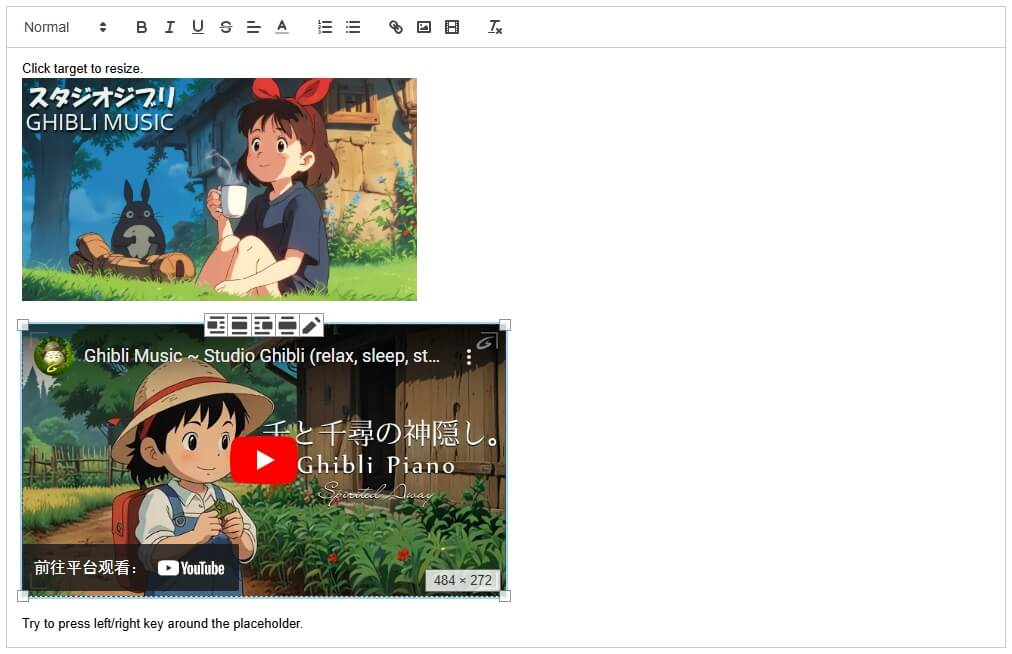
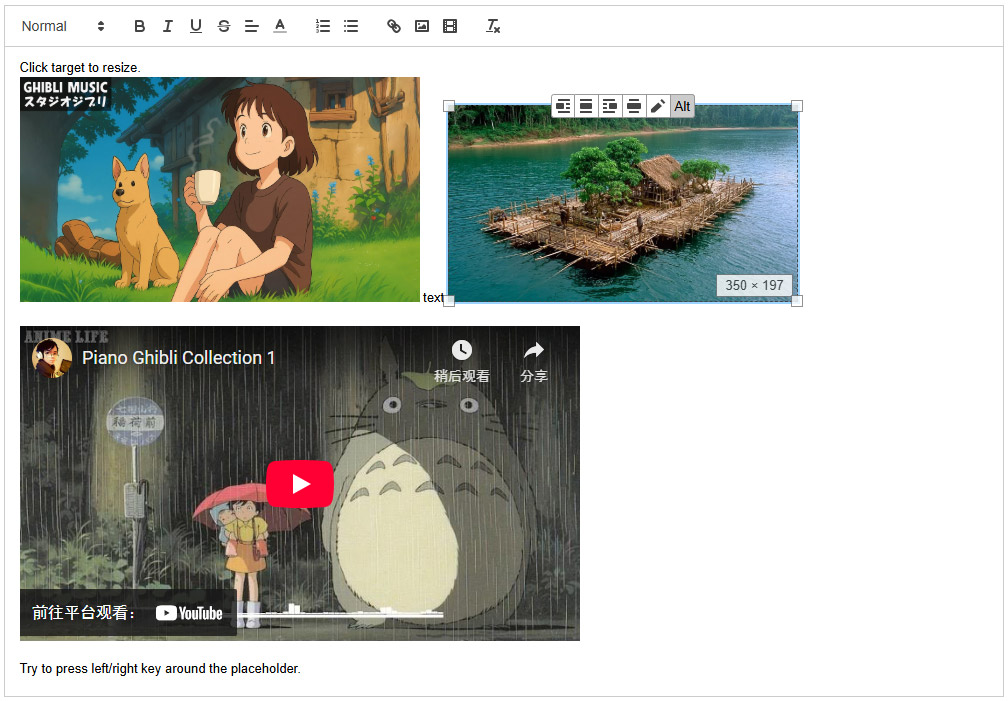
v2.0.5

diff --git a/demo/index.html b/demo/index.html
@@ -63,7 +63,7 @@
       <p>Click target to resize.</p>
       <p><img src="https://i.ytimg.com/vi/Fp5ghKduTK8/hq720.jpg" width="400"> text <img src="https://i.ytimg.com/vi/etdb8-v2enI/hq720.jpg" width="350"></p>
       <p><br></p>
-      <iframe width="560" height="315" src="https://www.youtube.com/embed/vYD1cSQ8jAY?si=DZYEYsGyDlciQRBP" title="YouTube video player" frameborder="0" allow="accelerometer; autoplay; clipboard-write; encrypted-media; gyroscope; picture-in-picture; web-share" referrerpolicy="strict-origin-when-cross-origin" allowfullscreen></iframe>
+      <iframe width="560" height="315" src="https://www.youtube.com/embed/HGl75kurxok?si=xZWI9qVC3oJs0Lll" title="YouTube video player" frameborder="0" allow="accelerometer; autoplay; clipboard-write; encrypted-media; gyroscope; picture-in-picture; web-share" referrerpolicy="strict-origin-when-cross-origin" allowfullscreen></iframe>
       <p><br></p>
       <p>Try to press left/right key around the placeholder.</p>
     </div>

diff --git a/demo/index.js b/demo/index.js
@@ -57,15 +57,15 @@ document.querySelector('.btn-content').addEventListener('click', function () {
 document.querySelector('.btn-text').addEventListener('click', function () {
   $result.value = demoEditor.getText()
 })
-document.querySelector(".btn-set-html").addEventListener("click", function () {
+document.querySelector('.btn-set-html').addEventListener('click', function () {
   const contents = demoEditor.clipboard.convert({
     html: `${$result.value}<p><br></p>`,
-    text: "\n",
+    text: '\n'
   })
   demoEditor.setContents(contents)
 })
-document.querySelector(".btn-set-content").addEventListener("click", function () {
-  demoEditor.setContents(JSON.parse($result.value));
+document.querySelector('.btn-set-content').addEventListener('click', function () {
+  demoEditor.setContents(JSON.parse($result.value))
 })
 document.querySelector('.btn-undo').addEventListener('click', function () {
   demoEditor.history.undo()
